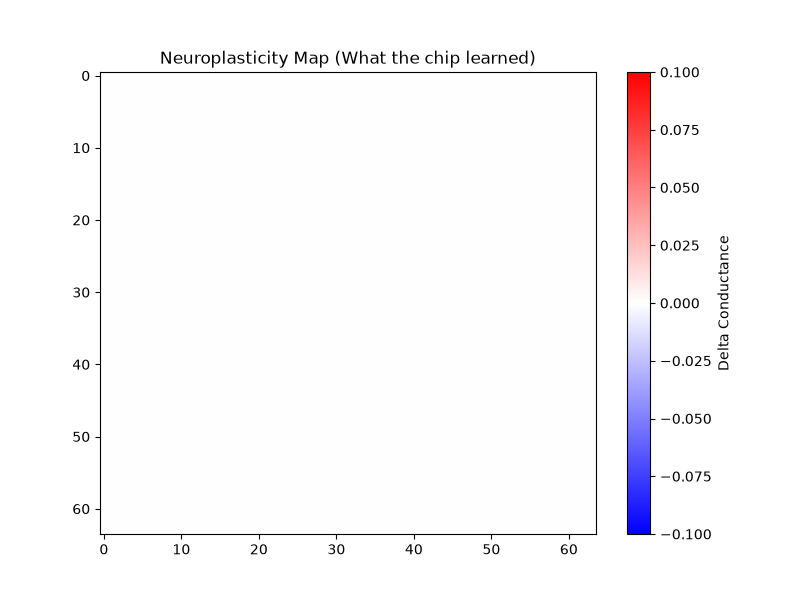
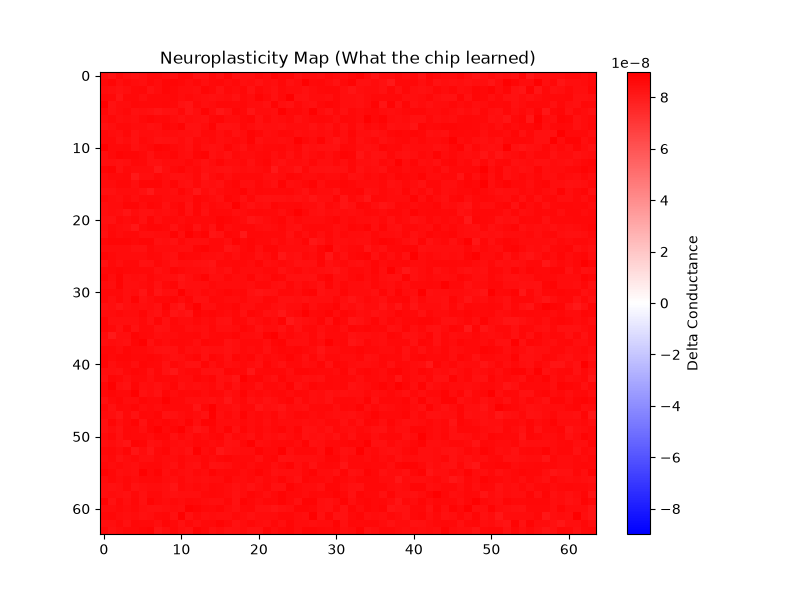
fix: Restore correct repository structure and fix Matplotlib scaling bug in NeuroForge renders

diff --git a/sdk/run_neuroforge.py b/sdk/run_neuroforge.py
@@ -21,7 +21,8 @@ def main():
     print("\n[Phase 2] Extracting Silicon Telemetry...")
     telemetry_path = "brain_telemetry.csv"
     if os.path.exists(telemetry_path):
-        render_brain_telemetry(telemetry_path, output_dir="brain_renders")
+        # Save output inside the sdk directory to keep the repository root clean
+        render_brain_telemetry(telemetry_path, output_dir="sdk/brain_renders")
     else:
         print(f"Waiting for {telemetry_path} to be generated by the SoC simulator.")
 
